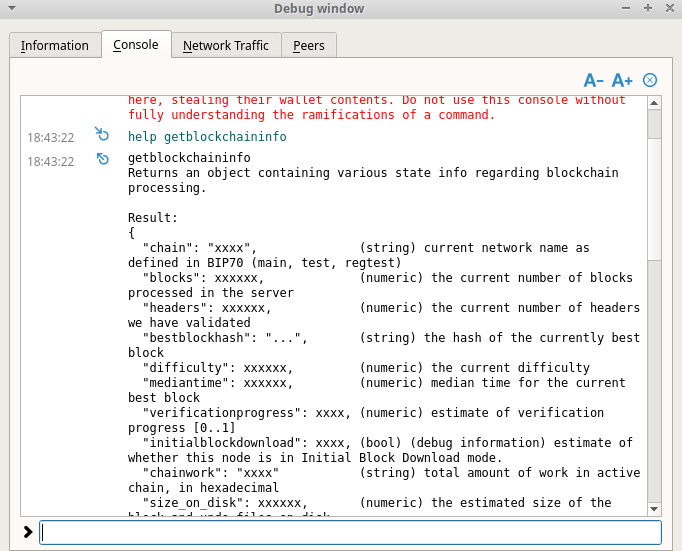
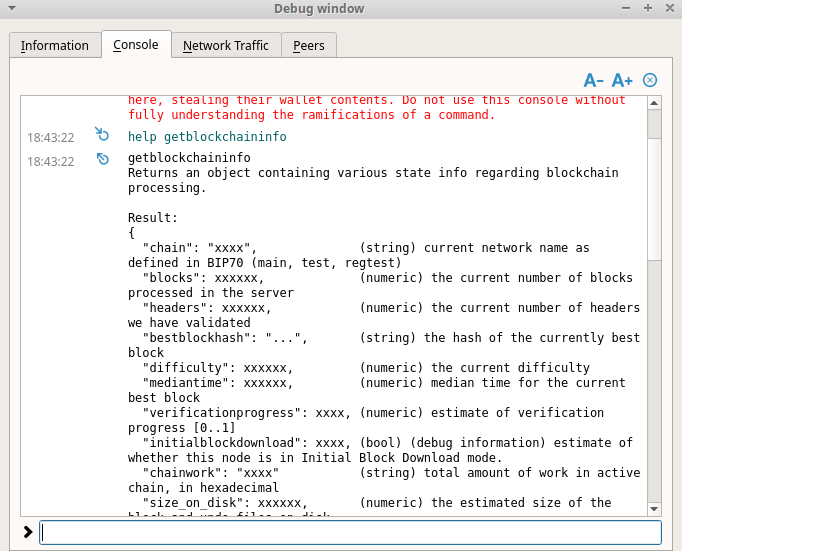
Fix images in tomas blog post
Images were too narrow, so captions appeared on side of images instead
of below them.

diff --git a/_posts/2019-03-22-how-to-set-up-bitcoin-regtest.md b/_posts/2019-03-22-how-to-set-up-bitcoin-regtest.md
@@ -66,32 +66,32 @@ Congrats, you are now prepared to look into Bitcoin internals!
 
 Bitcoin-qt makes it really easy to interact with the Bitcoin daemon. The console is easily accessible in the GUI. You can find it under Help -> Debug window -> Console.
 
-<img src="../../images/blog/bitcoin-qt-infopage.png" alt="Fig. 4. Information page in debug window">
+<img src="../../images/blog/bitcoin-qt-infopage.png" alt="Fig. 4. Information page in debug window.">
 <span class="caption">Fig. 4. Information page in debug window</span>
 
 As you can see, a new window will appear with various information about bitcoin-qt and the network mode it is running in. Note the network name is regtest. Make sure yours is as well.
 
 Let's click on the console tab as seen in Figure 5.
 
-<img src="../../images/blog/bitcoin-qt-infopage-debug.png" alt="Fig. 5. Information page in debug window">
+<img src="../../images/blog/bitcoin-qt-infopage-debug.png" alt="Fig. 5. Information page in debug window.">
 <span class="caption">Fig. 5 Information page in debug window</span>
 
 There are several commands that can be used to interact with the Bitcoin daemon. To see them, type `help` in the bottom of the window and press Enter. You can scroll up to view the full list of commands. If you want help on a particular command, type in `help <command name>`.
 
 <img src="../../images/blog/bitcoin-qt-help.png" alt="Fig. 6. partial output of the `help` command">
-<span class="caption">Fig. 6. Partial output of the `help` command</span>
+<span class="caption">Fig. 6. Partial output of the `help` command.</span>
 
 If you look closely, the third command is called `getblockchaininfo`. How about finding out what it does? The command `help` is our friend here :)
 
 Type in `help getblockchaininfo`. As the help system states, this command will give us information about the blockchain.
 
 <img src="../../images/blog/bitcoin-qt-getblockchaininfo.png" alt="Fig. 7. getblockchaininfo help">
-<span class="caption">Fig. 7. getblockchaininfo help</span>
+<span class="caption">Fig. 7. getblockchaininfo help.</span>
 
 Enter the `blockchaininfo` command into the console (RPC) window and examine the output. The output is in a strange (at least to non-programmers) format called JSON (JavaScript Object Notation). It is a format that can be easily understood by computers and, with a small effort, by humans as well. The `help getblockchaininfo` command describes what each key means.
 
 <img src="../../images/blog/bitcoin-qt-getblockchaininfo-json.png" alt="Fig. 8. JSON output of `getblockchaininfo`">
-<span class="caption">Fig. 8. JSON output of `getblockchaininfo`</span>
+<span class="caption">Fig. 8. JSON output of `getblockchaininfo`.</span>
 
 ## Generating our own blocks
 
@@ -108,7 +108,7 @@ generate 101
 ```
 
 <img src="../../images/blog/bitcoin-qt-generate.png" alt="Fig. 9. `generate` command output">
-<span class="caption">Fig. 9. `generate` command output</span>
+<span class="caption">Fig. 9. `generate` command output.</span>
 
 You will see a lot of popup windows saying “incoming transaction”. Just wait a few seconds until they disappear. The weird numbers and letters are the hashes of the blocks that were generated.
 
